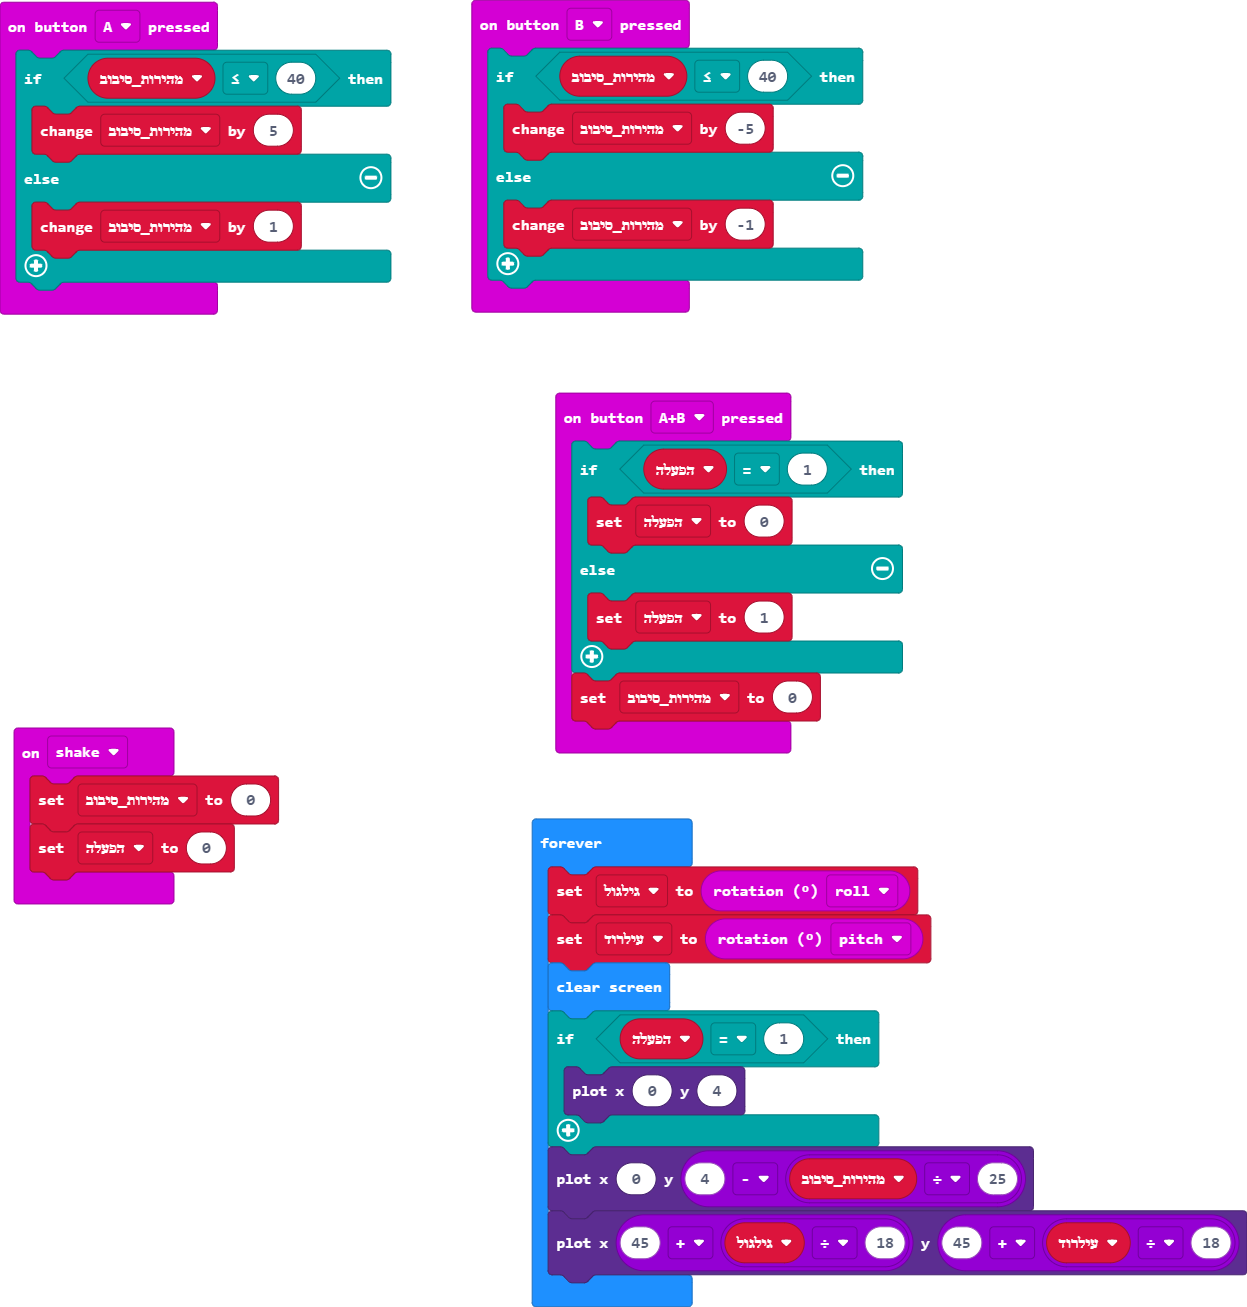
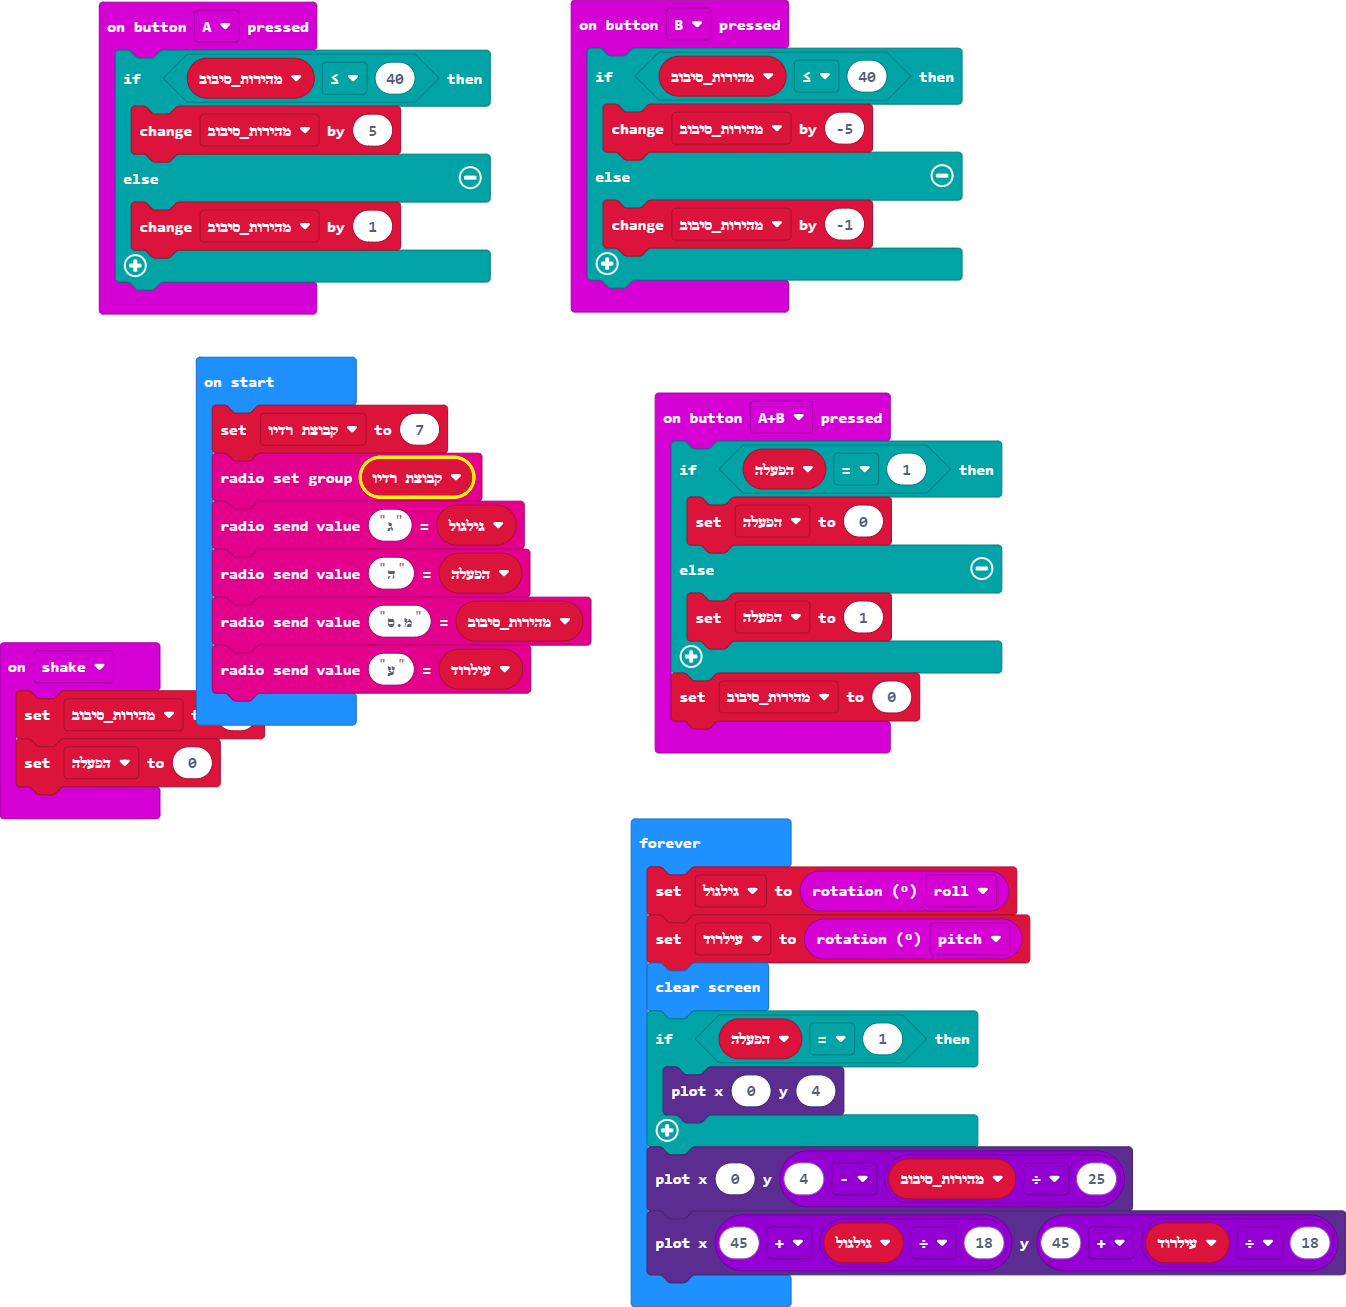
Update main.blocks, main.ts

diff --git a/main.ts b/main.ts
@@ -1,7 +1,3 @@
-let מהירות_סיבוב = 0
-let הפעלה = 0
-let גילגול = 0
-let עילרוד = 0
 input.onButtonPressed(Button.A, function () {
     if (מהירות_סיבוב <= 40) {
         מהירות_סיבוב += 5
@@ -28,6 +24,16 @@ input.onGesture(Gesture.Shake, function () {
     מהירות_סיבוב = 0
     הפעלה = 0
 })
+let עילרוד = 0
+let מהירות_סיבוב = 0
+let הפעלה = 0
+let גילגול = 0
+let קבוצת_רדיו = 7
+radio.setGroup(קבוצת_רדיו)
+radio.sendValue("ג", גילגול)
+radio.sendValue("ה", הפעלה)
+radio.sendValue("מ.ס", מהירות_סיבוב)
+radio.sendValue("ע", עילרוד)
 basic.forever(function () {
     גילגול = input.rotation(Rotation.Roll)
     עילרוד = input.rotation(Rotation.Pitch)
